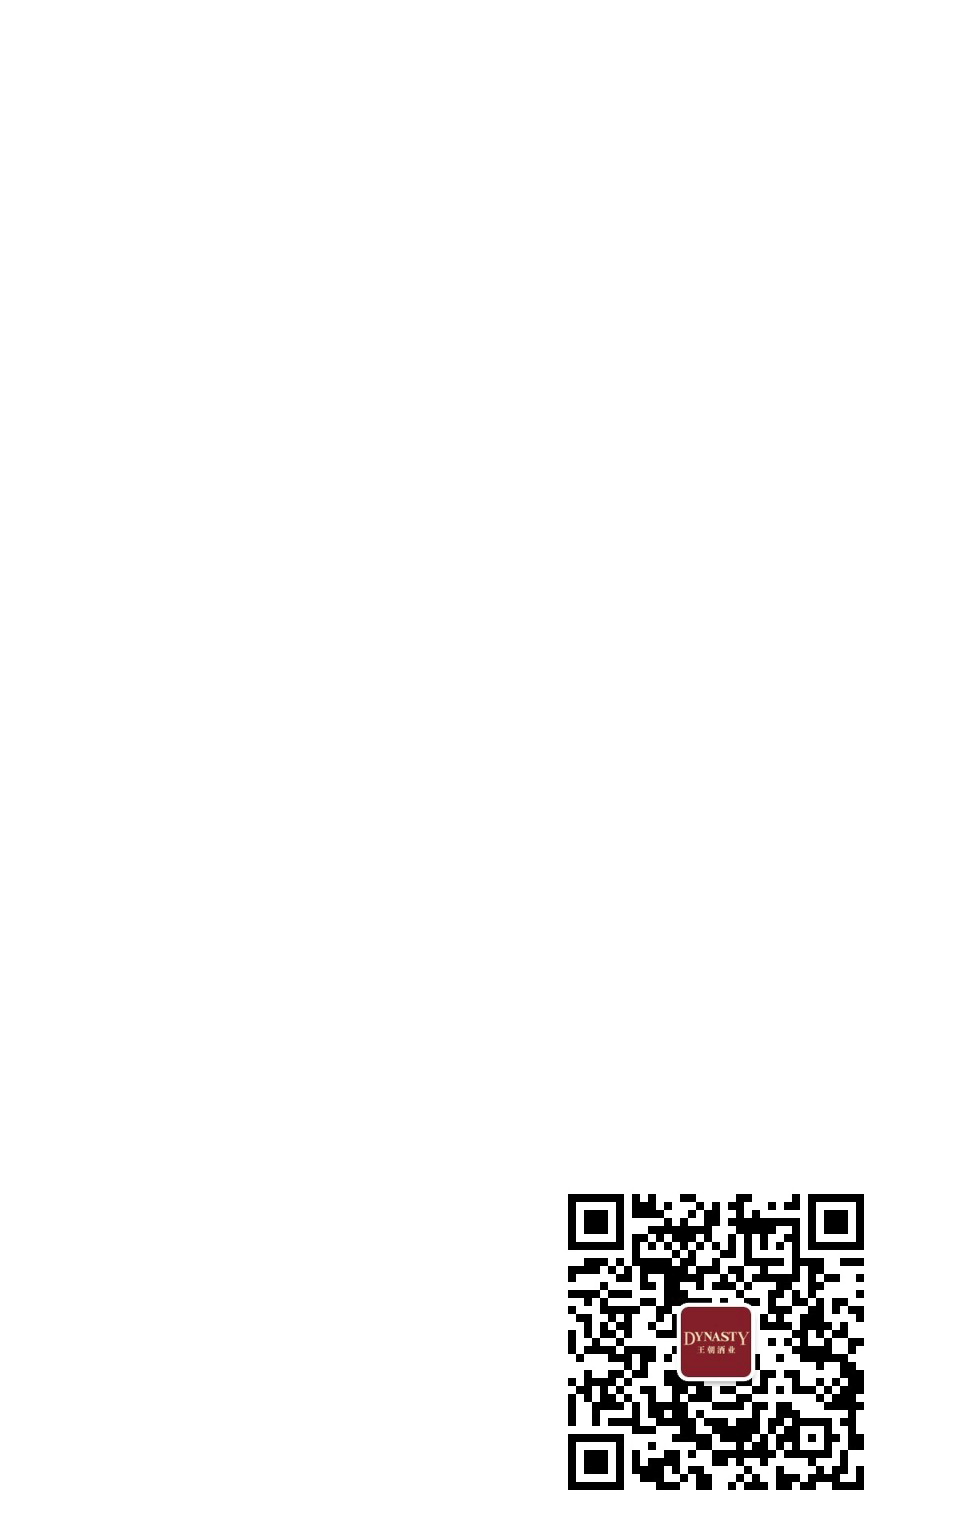
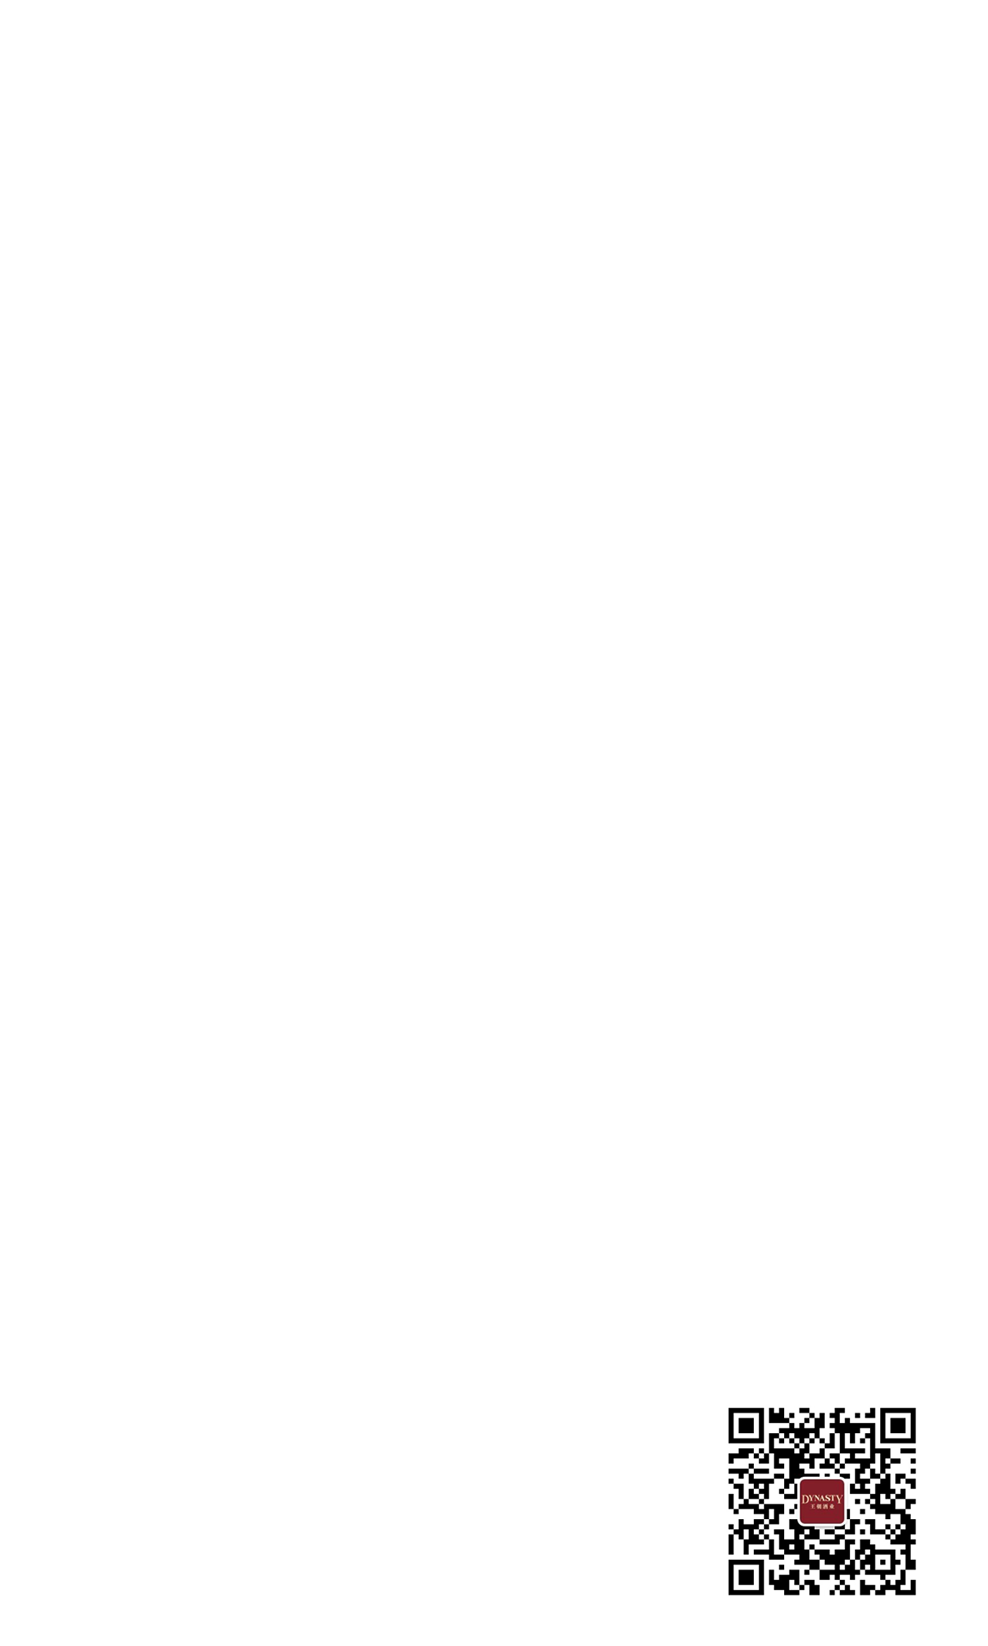
ci

Changed region(s): [[0.5895, 0.7761, 0.9307, 0.9934]]

diff --git a/index.html b/index.html
@@ -6,6 +6,7 @@
     <meta name="viewport">
     <link rel="stylesheet" href="./build/css/app.css">
     <script>
+
         (function () {
             var query = parse(location.search.substring(1));
             var appid = 'wx682926e9be5cf5c5';
@@ -27,6 +28,7 @@
                 return o;
             }
         })();
+
     </script>
     <script>
         (function () {
@@ -84,6 +86,9 @@ animation-duration: .2s;
 display: none;">
     <div class="cv"></div>
     <div class="r">
+        <div style="width: 800px;height: 620px;margin: 50px auto 0;overflow: auto;">
+            <img src="./build/css/rules-txt.png" alt="" style="width: 100%">
+        </div>
         <div class="rn"></div>
     </div>
 </div>
@@ -109,7 +114,8 @@ display: none;">
     <img src="build/css/i.jpg" alt="">
     <img src="build/css/ib.png" alt="">
     <img src="build/css/logo.png" alt="">
-    <img src="build/css/rules.png" alt="">
+    <img src="build/css/rules-bg.png" alt="">
+    <img src="build/css/rules-txt.png" alt="">
     <img src="build/css/sp1.png" alt="">
     <img src="build/css/sp2.png" alt="">
     <img src="build/css/sp3.png" alt="">

diff --git a/build/css/app.css b/build/css/app.css
@@ -270,15 +270,15 @@ body {
     top: 50%;
     -webkit-transform: translate(-50%, -50%);
     transform: translate(-50%, -50%);
-    width: 840px;
-    height: 950px;
-    background: url("./rules.png") no-repeat;
+    width: 1000px;
+    height: 880px;
+    background: url("./rules-bg.png") no-repeat;
 }
 
 .rn {
     position: absolute;
-    bottom: 90px;
-    left: 220px;
+    bottom: 60px;
+    left: 310px;
     width: 380px;
     height: 130px;
 }
@@ -293,24 +293,24 @@ body {
 }
 
 .bg-win {
-    background-image: url("./win-bg.jpg");
+    /*background-image: url("./win-bg.jpg");*/
 }
 
 .win {
     background: url("./win.png") no-repeat;
-    background-position: 100px 250px;
+    background-position: 20px 60px;
 }
 
 .erweima {
     position: relative;
-    left: 94px;
-    top: 269px;
+    left: 14px;
+    top: 50px;
 }
 
 .code-container {
     position: absolute;
     font-size: 50px;
-    top: 1182px;
+    top: 1217px;
     left: 214px;
 }
 
@@ -352,7 +352,7 @@ body {
 
 .fx-btn {
     position: absolute;
-    top: 1400px;
+    top: 1480px;
     left: 110px;
     width: 470px;
     height: 170px;

diff --git a/css/app.css b/css/app.css
@@ -249,15 +249,15 @@ body {
     left: 50%;
     top: 50%;
     transform: translate(-50%, -50%);
-    width: 840px;
-    height: 950px;
-    background: url("./rules.png") no-repeat;
+    width: 1000px;
+    height: 880px;
+    background: url("./rules-bg.png") no-repeat;
 }
 
 .rn {
     position: absolute;
-    bottom: 90px;
-    left: 220px;
+    bottom: 60px;
+    left: 310px;
     width: 380px;
     height: 130px;
 }
@@ -272,24 +272,24 @@ body {
 }
 
 .bg-win {
-    background-image: url("./win-bg.jpg");
+    /*background-image: url("./win-bg.jpg");*/
 }
 
 .win {
     background: url("./win.png") no-repeat;
-    background-position: 100px 250px;
+    background-position: 20px 60px;
 }
 
 .erweima {
     position: relative;
-    left: 94px;
-    top: 269px;
+    left: 14px;
+    top: 50px;
 }
 
 .code-container {
     position: absolute;
     font-size: 50px;
-    top: 1182px;
+    top: 1217px;
     left: 214px;
 }
 
@@ -331,7 +331,7 @@ body {
 
 .fx-btn {
     position: absolute;
-    top: 1400px;
+    top: 1480px;
     left: 110px;
     width: 470px;
     height: 170px;
